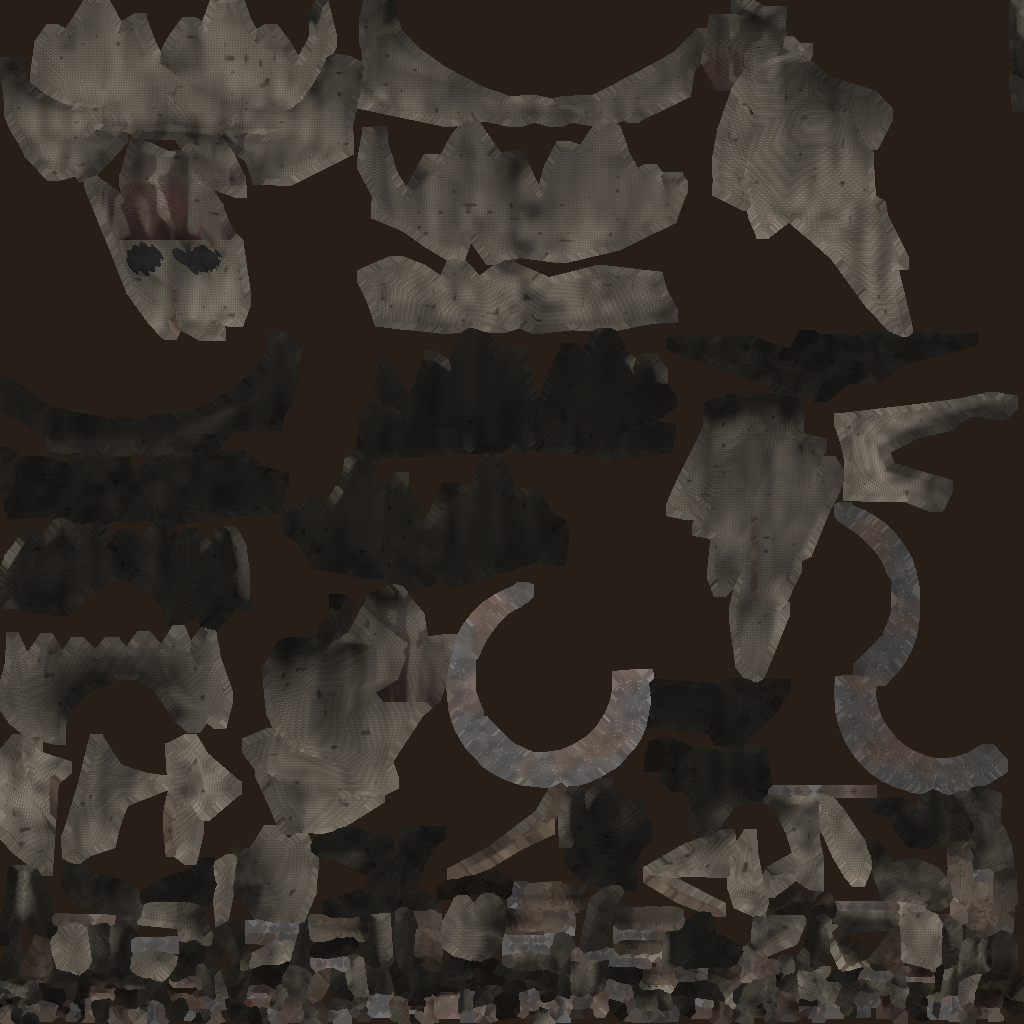
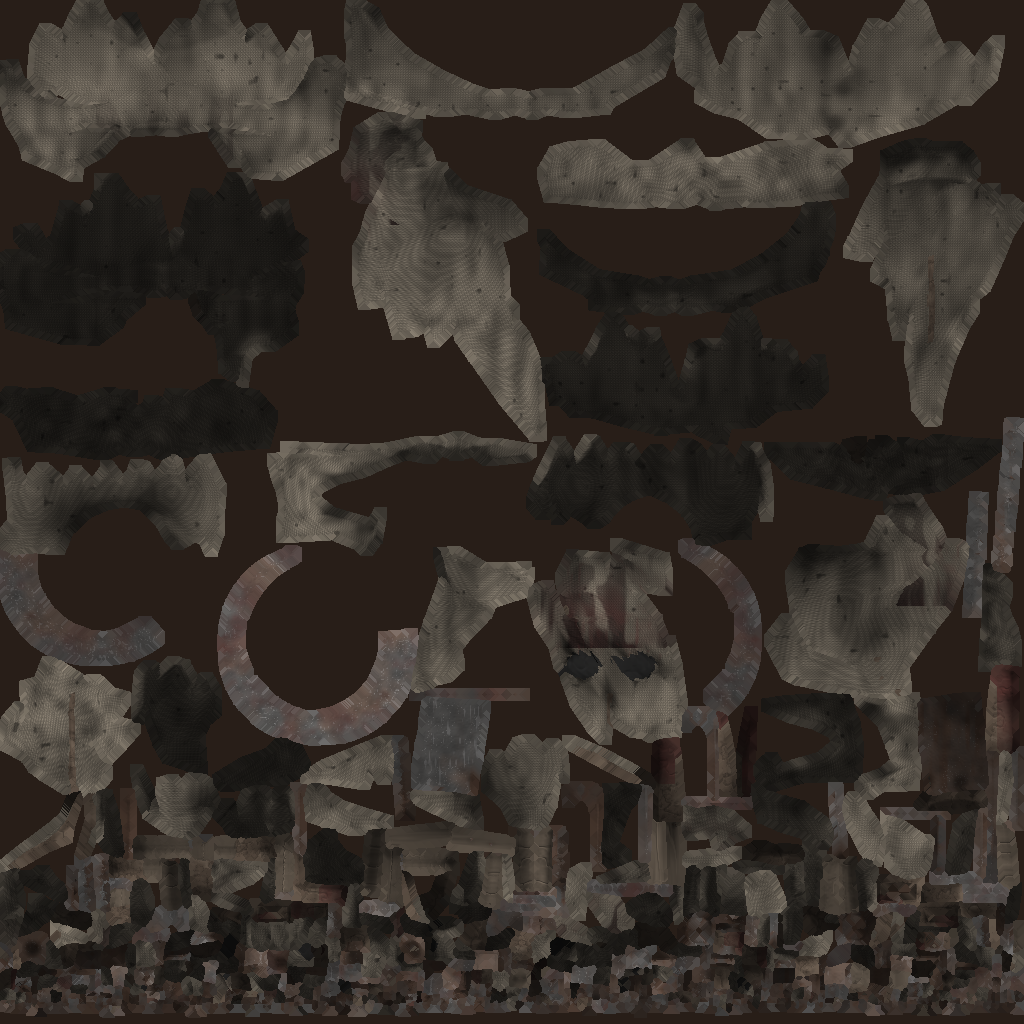
El Carnicero: segundo pase de detalle (delantal, herramientas, costuras, sangre)
Claude-Session: https://claude.ai/code/session_016UXqqEt7WrCGpXB6jiMYkp

diff --git a/models/rastrero/model.py b/models/rastrero/model.py
@@ -131,6 +131,16 @@ def legs(p):
     for c, r in ((JR['knee'] + V(0, -10, 70), V(55, 60, 60)), (JL['knee'] + V(10, -170, 55), V(48, 70, 60))):
         d = np.maximum(d, -(ell(p, c, r) + 6 * np.sin(p[:, 0] * 0.3 + p[:, 1] * 0.25)))
     return d
+def seams(p, lg):
+    """raised outer seams, a stitched patch on the left thigh, rolled cuffs"""
+    x, y, z = p[:, 0], p[:, 1], p[:, 2]
+    d = None
+    for s, j in ((-1, JR), (1, JL)):
+        ln_ = np.maximum(np.maximum(lg - 2.5, -lg - 2), np.maximum(np.abs(z - 10) - 3.0, np.maximum(s * (j['hip'][0] - x), y - 930)))
+        cf = np.maximum(np.abs(rcone(p, j['ank'] + V(0, 185, 0), j['ank'] + V(0, 235, 0), 86, 84)) - 7, np.abs(y - j['ank'][1] - 210) - 26)
+        d = mn(*(e for e in (d, ln_, cf) if e is not None))
+    pt = np.maximum(np.maximum(lg - 3.5, -lg - 3), rbox(p, JL['hip'] + V(25, -230, 90), V(55, 65, 80), 10))
+    return np.minimum(d, pt)
 def knees(p):                                                     # skin showing through the tears
     d = None
     for s, j in ((-1, JR), (1, JL)):
@@ -172,6 +182,12 @@ def shirt(p, tor):
     d = np.maximum(d, -np.maximum(vn, 1300 - y))
     for i in range(4):                                                               # buttons
         d = np.minimum(d, sph(p, V(-26, 1300 - i * 75, 150 - 8 * i), 7))
+    col = np.maximum(np.abs(rcone(p, V(0, 1470, 5), V(0, 1545, 25), 78, 66)) - 6, np.maximum(np.abs(y - 1505) - 30, 1300 - y))   # collar
+    col = np.maximum(col, -np.maximum(np.abs(x) - 35, -z))
+    d = np.minimum(d, col)
+    for s_ in (-1, 1):                                                               # shoulder seams
+        d = np.minimum(d, np.maximum(np.maximum(tor - 12.5, -(tor - 6)), np.abs(x - s_ * 150) - 2.5 + 0 * y))
+    d = np.maximum(d, np.maximum(y - 1545, 930 - y))
     return d
 def straps(p, tor):
     """leather braces: front from the belt over the shoulders, crossed on the back"""
@@ -194,28 +210,75 @@ def belt(p):
     bk = rbox(p, V(-30, 975, 132), V(32, 28, 9), 4)
     bk = np.maximum(bk, -rbox(p, V(-30, 975, 140), V(19, 15, 9), 3))
     return b, bk
-def apron(p):
-    """a ragged leather apron hanging from the belt to below the knees, front only"""
+def apron(p, tor):
+    """the butcher's apron: heavy leather from the chest to below the knees, a strap round the neck,
+    tied at the back; a stitched pocket, rivets, cut and scored all over"""
     x, y, z = p[:, 0], p[:, 1], p[:, 2]
     rr = np.sqrt((x * 0.9) ** 2 + (z + 40) ** 2)
-    sl = 0.10 * np.clip(990 - y, 0, 600)                                      # flares out downwards
-    d = np.abs(rr - 168 - sl - 6 * np.sin(x * 0.05) * np.clip((900 - y) / 300, 0, 1)) - 5
-    hem = 470 + 45 * np.sin(x * 0.045 + 0.8) + 25 * np.sin(x * 0.13) + 18 * np.sin(x * 0.31)
-    d = np.maximum(d, np.maximum(y - 995, hem - y))
-    d = np.maximum(d, np.maximum(np.abs(x) - 185 - 0.12 * np.clip(990 - y, 0, 600), 40 - z))
-    for c in (V(70, 640, 200), V(-110, 560, 200), V(10, 760, 190)):        # holes
-        d = np.maximum(d, -(sph(p * V(1, 0.6, 1), c * V(1, 0.6, 1), 22)))
-    return d
+    sl = 0.10 * np.clip(990 - y, 0, 600)
+    lo = np.abs(rr - 170 - sl - 7 * np.sin(x * 0.05) * np.clip((900 - y) / 300, 0, 1)) - 5.5
+    hem = 455 + 40 * np.sin(x * 0.045 + 0.8) + 22 * np.sin(x * 0.13) + 14 * np.sin(x * 0.31)
+    lo = np.maximum(lo, np.maximum(y - 1000, hem - y))
+    lo = np.maximum(lo, np.maximum(np.abs(x) - 190 - 0.12 * np.clip(990 - y, 0, 600), 40 - z))
+    bib = np.abs(tor - 30) - 5.5                                                # over the shirt and braces
+    bw = 92 + np.clip(1390 - y, 0, 400) * 0.13
+    top = 1395 - 0.004 * x * x                                                  # rounded top corners
+    bib = np.maximum(bib, np.maximum(np.abs(x) - bw, np.maximum(y - top, 990 - y)))
+    bib = bib + 2.2 * np.sin(y * 0.05 + 0.6 * np.sin(x * 0.04)) * np.clip((1350 - y) / 100, 0, 1)    # heavy hide sags
+    bib = np.maximum(bib, 30 - z)
+    d = np.minimum(lo, bib)
+    d = d + 1.6 * np.sin(y * 0.07 + 1.3 * np.sin(x * 0.03)) * np.clip((1000 - y) / 80, 0, 1)      # creases where it bends
+    for c in (V(70, 640, 200), V(-110, 560, 200), V(10, 760, 190), V(150, 520, 160)):              # holes, cuts
+        d = np.maximum(d, -(sph(p * V(1, 0.6, 1), c * V(1, 0.6, 1), 18)))
+    for x0, y0, a_ in ((-40, 860, 0.5), (60, 1180, -0.3), (-80, 1250, 0.2), (95, 700, 0.9), (-20, 1080, -0.6)):  # knife scores
+        dd = np.abs((x - x0) * math.sin(a_) - (y - y0) * math.cos(a_)) - 1.6
+        along = np.abs((x - x0) * math.cos(a_) + (y - y0) * math.sin(a_)) - 45
+        d = np.maximum(d, -np.maximum(np.maximum(dd, along), z - 0))
+    # pocket on the front with a stitched rim
+    pk = np.maximum(np.abs(rr - 170 - sl) - 10.5, np.maximum(np.abs(x - 70) - 62, np.abs(y - 820) - 55))
+    pk = np.maximum(pk, 40 - z)
+    rim = np.maximum(pk + 1.5, -np.maximum(np.abs(x - 70) - 55, np.abs(y - 820) - 48))
+    d = np.minimum(d, pk)
+    # neck strap and the ties at the back
+    ns = None
+    for s_ in (-1, 1):
+        a0 = V(s_ * 88, 1365, 0); a0[2] = 140
+        r_ = rcone(p, a0, V(s_ * 70, 1520, 40), 13, 13); r_ = np.maximum(r_, np.abs((p - a0) @ V(s_, 0, 0.3)) - 3.5 - 1e3 * 0)
+        ns = r_ if ns is None else np.minimum(ns, r_)
+    ns = np.minimum(ns, np.maximum(torus(p, V(0, 1520, -10), nrm(V(0, 1, -0.25)), 80, 11), z - 40))
+    ties = np.maximum(np.abs(np.minimum(pelvis(p), ell(p, V(0, 1105, 12), V(138, 150, 100))) - 34) - 5, np.maximum(np.abs(y - 990) - 11, z + 20))
+    bow = np.minimum(ell(p, V(-38, 992, -150), V(38, 18, 9)), ell(p, V(38, 992, -150), V(38, 18, 9)))
+    bow = np.minimum(bow, sph(p, V(0, 990, -150), 14))
+    tl = np.minimum(rcone(p, V(-5, 985, -150), V(-30, 860, -148), 7, 6), rcone(p, V(5, 985, -150), V(25, 870, -150), 7, 6))
+    rv = None
+    for c in (V(-88, 1362, 0), V(88, 1362, 0), V(-125, 1000, 0), V(125, 1000, 0)):
+        c = c.copy(); c[2] = 152 if c[1] > 1200 else 150
+        r2 = sph(p, c, 7); rv = r2 if rv is None else np.minimum(rv, r2)
+    return mn(d, ns, ties, bow, tl), rv, rim
+def bracer(p):
+    """leather guard laced on the right forearm (the hand that holds the meat)"""
+    j = JR; a = j['el'] + (j['wr'] - j['el']) * 0.30; b = j['wr'] + (j['el'] - j['wr']) * 0.06
+    g = rcone(p, a, b, 50, 41)
+    g = np.maximum(np.abs(g) - 4.5, np.abs((p - (a + b) / 2) @ nrm(b - a)) - float(np.linalg.norm(b - a)) / 2)
+    st = None
+    for t in (0.2, 0.75):
+        c = a + (b - a) * t; s_ = np.maximum(np.abs(rcone(p, a, b, 55, 46)) - 3.5, np.abs((p - c) @ nrm(b - a)) - 9)
+        st = s_ if st is None else np.minimum(st, s_)
+    bk = None
+    for t in (0.2, 0.75):
+        c = a + (b - a) * t + V(0, 0, 50 - 6 * t); b_ = rbox(p, c, V(13, 11, 5), 2)
+        bk = b_ if bk is None else np.minimum(bk, b_)
+    return g, st, bk
 def body(p):
     sk = skin(p); tor = np.minimum(torso(p), pelvis(p))
     lg = legs(p); bt, so, la = boots(p); bl, bk = belt(p)
-    ap = apron(p); sh = shirt(p, tor); stp = straps(p, tor)
+    ap, rivets, rim = apron(p, tor); sh = shirt(p, tor); stp = straps(p, tor); bg, bst, bbk = bracer(p)
     pl = plaga_arm(p); sp = smin(spikes_arm(p), spine_spikes(p), 6)
     spb = None                                                         # flesh round the spine spikes' roots
     for y in (1170, 1235, 1300, 1365, 1430, 1490):
         s_ = ell(p, V(0, y, -110), V(34, 30, 26)); spb = s_ if spb is None else smin(spb, s_, 12)
-    return {SKIN: mn(sk, knees(p)), CLOTH: sh, PANTS: lg, BOOT: bt, SOLE: so, LEATHER: mn(ap, bl, stp, la),
-            IRON: bk, PLAGA: mn(pl, spb), BONE: sp}
+    return {SKIN: mn(sk, knees(p)), CLOTH: sh, PANTS: mn(lg, seams(p, lg)), BOOT: bt, SOLE: so, LEATHER: mn(ap, bl, stp, la, bg, bst, rim),
+            IRON: mn(bk, rivets, bbk), PLAGA: mn(pl, spb), BONE: sp}
 BODY_BOX = (V(-820, -5, -330), V(1010, 1600, 330))
 
 # ---- hood: a burlap sack tied at the neck, eye holes torn in it, a sewn mouth ----------------------
@@ -265,6 +328,19 @@ def hood(p):
     knot = sph(p, V(30, 1505, 82), 18)
     rope = smin(rope, np.minimum(knot, np.minimum(rcone(p, V(30, 1500, 85), V(42, 1395, 98), 7, 6), rcone(p, V(30, 1500, 85), V(12, 1410, 102), 7, 6))), 6)
     d = np.maximum(d, -np.maximum(groove - 0.0, np.abs(h) - 3.0))                     # the sewn-up mouth sinks in
+    # a sewn-on patch over the right temple, with big stitches round it
+    pc = HEAD + V(-78, 70, 55)
+    pt = np.maximum(np.maximum(h - 3.0, -h - 6), ell(p, pc, V(60, 48, 70)))
+    d = np.minimum(d, pt)
+    for i in range(10):
+        a_ = i * 2 * math.pi / 10; c_ = pc + V(52 * math.cos(a_) * 0.55, 42 * math.sin(a_), 52 * math.cos(a_) * 0.75)
+        q_ = np.maximum(sph(p, c_, 4.5), np.abs(h - 2) - 4)
+        st = np.minimum(st, q_)
+    # frayed threads hanging from the eye holes
+    for s_ in (-1, 1):
+        for k in range(3):
+            t0 = HEAD + V(s_ * (28 + 12 * k), 2 - 4 * k, 112 - 4 * k)
+            st = np.minimum(st, rcone(p, t0, t0 + V(s_ * 4, -28 - 10 * k, 4), 1.8, 1.2))
     return {SACK: d, SOLE: dark, EYE: glint, LEATHER: mn(seam, st, cs, rope)}
 HOOD_BOX = (V(-290, 1340, -280), V(290, 1920, 300))
 
@@ -331,16 +407,55 @@ CLAW_BOX = box_of([JL['wr'] - FD_L * 60, JL['wr'] + FD_L * 420 + V(0, -260, 0), 
 
 # ---- accessories ---------------------------------------------------------------------------------
 def acc(p):
+    """the butcher's belt: a cleaver on a ring at the right hip, a knife in its sheath at the left, the
+    sharpening steel behind it, two meat hooks on a chain at the back"""
+    x, y, z = p[:, 0], p[:, 1], p[:, 2]
     clips = None
     for s in (-1, 1):
-        fx = s * (78 + 15 * 0.06)
-        c = rbox(p, V(fx, 1005, 132), V(19, 15, 6), 3)
-        clips = c if clips is None else np.minimum(clips, c)
-    # a pouch and a whetstone hanging from the belt at the right hip
-    pouch = rbox(p, V(-150, 900, 70), V(42, 55, 26), 14, frame(nrm(V(0.4, 0, 0.9)), V(0, 1, 0)))
-    flap = rbox(p, V(-150, 945, 78), V(45, 16, 29), 8, frame(nrm(V(0.4, 0, 0.9)), V(0, 1, 0)))
-    return {IRON: clips, LEATHER: smin(pouch, flap, 4)}
-ACC_BOX = (V(-230, 820, -60), V(140, 1040, 180))
+        c = rbox(p, V(s * 79, 1005, 132), V(19, 15, 6), 3); clips = c if clips is None else np.minimum(clips, c)
+    # cleaver: hanging blade down, flat to the thigh
+    R1 = frame(nrm(V(0.08, -1, 0.15)), V(0, 0, 1))
+    q = (p - V(-258, 950, 40)) @ R1.T
+    cb = rbox(q, V(105, 0, 0), V(85, 55, 3.5), 2)
+    cb = np.maximum(cb, -(ln(q[:, [0, 1]] - np.array([38, -30], np.float32)) - 11))                       # the hang hole
+    cb = np.maximum(cb, -np.maximum(np.abs(q[:, 1] + 55) - 3, np.abs(q[:, 0] - 130) - 8))                 # a notch
+    ch = ccyl(q, V(40, 55, 0), V(40, 170, 0), 15, 4)
+    ring = torus(p, V(-232, 948, 40), nrm(V(0, 0, 1)), 26, 5)
+    rivc = np.minimum(sph(q, V(40, 90, 15), 4.5), sph(q, V(40, 130, 15), 4.5))
+    # sheath + knife on the left hip
+    R2 = frame(nrm(V(-0.05, -1, 0.12)), V(1, 0, 0))
+    q2 = (p - V(262, 900, 20)) @ R2.T
+    sheath = rbox(q2, V(115, 0, 0), V(120, 24, 11), 6) + 0.08 * np.clip(q2[:, 0] - 60, 0, 200)
+    sheath = np.maximum(sheath, q2[:, 0] - 240)
+    kh = ccyl(q2, V(-120, 0, 0), V(-6, 0, 0), 15, 4); bol = ccyl(q2, V(-8, 0, 0), V(6, 0, 0), 19, 2)
+    loop = np.maximum(np.abs(rbox(q2, V(0, 0, 0), V(30, 36, 18), 6)) - 3, np.abs(q2[:, 0] - 20) - 14)
+    # sharpening steel behind it
+    R3 = frame(nrm(V(0.05, -1, -0.1)), V(1, 0, 0))
+    q3 = (p - V(240, 930, -95)) @ R3.T
+    st = ccyl(q3, V(20, 0, 0), V(300, 0, 0), 7, 1)
+    st = st + 0.6 * np.sin(q3[:, 0] * 1.2)
+    sh_ = ccyl(q3, V(-95, 0, 0), V(0, 0, 0), 15, 4); gd = ccyl(q3, V(0, 0, 0), V(18, 0, 0), 22, 3)
+    eye = torus(q3, V(-110, 0, 0), V(0, 0, 1), 12, 3.5)
+    # two meat hooks on a short chain, right back
+    hk = None; chn = None
+    for i, (hx, hz) in enumerate(((-200, -150), (-140, -190))):
+        top = V(hx, 980, hz)
+        for k in range(3):
+            c = top + V(0, -22 * k - 10, 0)
+            l_ = torus(p, c, V(1, 0, 0) if k % 2 else V(0, 0, 1), 9, 3.2)
+            chn = l_ if chn is None else np.minimum(chn, l_)
+        b0 = top + V(0, -80, 0)
+        sh2 = rcone(p, b0, b0 + V(0, -110 - 20 * i, 0), 5.5, 5.5)
+        cv = top + V(0, -190 - 20 * i, 0) + V(0, 0, 32)
+        qq = p - cv; r_ = np.sqrt(qq[:, 1] ** 2 + qq[:, 2] ** 2)
+        arc = np.maximum(np.abs(r_ - 32) - 5.5 + 0 * qq[:, 0], np.abs(qq[:, 0]) - 5.5)
+        arc = np.maximum(arc, qq[:, 1] - 8 * 0 - 0)                                                     # lower half
+        arc = np.maximum(arc, -(qq[:, 2] + 30) * 0 + (qq[:, 2] > 26) * 1e3)
+        tip = rcone(p, cv + V(0, 0, 32), cv + V(0, 30, 34), 5.5, 1.2)
+        h_ = mn(sh2, arc, tip)
+        hk = h_ if hk is None else np.minimum(hk, h_)
+    return {IRON: mn(clips, cb, ring, st, bol, gd, eye, hk, chn), WOOD: mn(ch, kh, sh_), LEATHER: mn(sheath, loop), CHAIN: rivc}
+ACC_BOX = (V(-330, 480, -300), V(330, 1060, 240))
 
 # ---- weapon: a rusted sickle ---------------------------------------------------------------------
 WB = np.stack([HDIR, FD_R, np.cross(HDIR, FD_R)])                   # local x along the handle, y along the forearm: hanging, the blade curves down in front of the leg
@@ -379,8 +494,8 @@ def wbox():
     c = [GRIP + WB.T @ V(x, y, z) for x in (-190, 470) for y in (-40, 430) for z in (-30, 30)]
     return box_of(c, 12)
 WEAPON_BOX = wbox()
-PARTS = [('body', body, BODY_BOX, 4.5, 9000), ('mask', hood, HOOD_BOX, 2.5, 1600), ('fist', fist, FIST_BOX, 2.0, 500),
-         ('claw', claw, CLAW_BOX, 2.0, 1500), ('acc', acc, ACC_BOX, 2.5, 300), ('weapon', weapon, WEAPON_BOX, 2.0, 900)]
+PARTS = [('body', body, BODY_BOX, 3.5, 13000), ('mask', hood, HOOD_BOX, 2.0, 2200), ('fist', fist, FIST_BOX, 2.0, 500),
+         ('claw', claw, CLAW_BOX, 2.0, 1500), ('acc', acc, ACC_BOX, 2.0, 2200), ('weapon', weapon, WEAPON_BOX, 2.0, 1200)]
 def field(fn, p):
     g = fn(p); mats = list(g.keys()); D = np.stack([g[m] for m in mats])
     return D.min(0), np.array(mats)[D.argmin(0)]

diff --git a/models/rastrero/tex.py b/models/rastrero/tex.py
@@ -212,6 +212,35 @@ def texcolour(name, fn, P, N):
         scr = np.clip(1 - np.abs(aniso(Q, 45.0, 2.2, 0, 31.0) - 0.5) / 0.012, 0, 1) * (vnoise(Q + 8, 60.0) > 0.55) + np.clip(1 - np.abs(aniso(Q + 9, 50.0, 2.0, 1, 37.0) - 0.5) / 0.010, 0, 1) * (vnoise(Q + 80, 60.0) > 0.6)
         c[ir] += 0.10 * np.clip(scr, 0, 1)[:, None]
         ham = vnoise(Q, 16.0); c[ir] *= (0.72 + 0.5 * ham)[:, None]                                            # hammered, uneven plate
+    # ---- the butcher: blood everywhere he works
+    x_, y_, z_ = P[:, 0], P[:, 1], P[:, 2]
+    BLD = np.array([0.15, 0.018, 0.014], np.float32); DRY = np.array([0.075, 0.03, 0.022], np.float32)
+    b = np.zeros(len(P), np.float32)
+    apr = (mat == LEATHER) & (z_ > 25) & (y_ < 1400) & (np.abs(x_) < 270)
+    if apr.any():
+        Q = P[apr]
+        big = np.clip((fbm(Q + 31, 110.0) - 0.36) * 3.0, 0, 1) * (0.55 + 0.45 * np.clip((1250 - Q[:, 1]) / 400, 0, 1))
+        drip = np.clip((vnoise(Q * np.array([1, 0.05, 1], np.float32), 14.0) - 0.62) * 4, 0, 1) * np.clip((fbm(Q + 3, 160.0) - 0.3) * 3, 0, 1)
+        wipe = np.clip((vnoise(Q * np.array([0.06, 1, 1], np.float32), 10.0) - 0.55) * 3, 0, 1) * np.clip((np.abs(Q[:, 0]) - 80) / 60, 0, 1) * (np.abs(Q[:, 1] - 930) < 90)
+        b[apr] = np.maximum(np.maximum(big, drip), wipe)
+    skn = ((mat == SKIN) | (mat == CLOTH)) & (np.abs(x_) > model.ARM_X + 150) & (x_ < 0)       # the working arm, to the elbow
+    if skn.any():
+        Q = P[skn]; t_ = np.clip((np.abs(Q[:, 0]) - (model.ARM_X + 150)) / 280, 0, 1)
+        b[skn] = np.clip(t_ * 1.1 - 0.35 + 0.9 * (fbm(Q + 9, 30.0) - 0.5), 0, 1) * 0.75
+    hnd = (mat == SKIN) & (np.linalg.norm(P - model.GRIP, axis=1) < 140)
+    b[hnd] = np.maximum(b[hnd], 0.6 * np.clip((fbm(P[hnd] + 2, 20.0) - 0.45) * 3, 0, 1))
+    spl = np.isin(mat, (PANTS, BOOT, CLOTH)) & ~skn
+    if spl.any():
+        Q = P[spl]
+        spots = np.clip((vnoise(Q + 77, 9.0) - 0.78) * 6, 0, 1) * np.clip((fbm(Q + 11, 90.0) - 0.35) * 3, 0, 1)
+        runs = np.clip((vnoise(Q * np.array([1, 0.07, 1], np.float32) + 5, 12.0) - 0.75) * 5, 0, 1) * (Q[:, 1] < 700)
+        b[spl] = np.maximum(spots, runs * 0.7) * (0.6 + 0.4 * np.clip((900 - Q[:, 1]) / 600, 0, 1))
+    ir = (mat == IRON) & (np.linalg.norm(P - model.GRIP, axis=1) < 520) & (np.linalg.norm(P - model.GRIP, axis=1) > 160)
+    if ir.any():
+        b[ir] = np.clip((fbm(P[ir] + 41, 40.0) - 0.4) * 2.5, 0, 1) * 0.8
+    dry = np.clip(fbm(P + 123, 35.0) * 1.4 - 0.3, 0, 1)[:, None]
+    bc = BLD * (1 - dry) + DRY * dry
+    c = c * (1 - 0.9 * b[:, None]) + bc * 0.9 * b[:, None]
     sa = mat == SACK
     if sa.any():
         Q = P[sa]

diff --git a/models/rastrero/show.py b/models/rastrero/show.py
@@ -28,7 +28,7 @@ CROUCH = {1: rx(d(35)), 2: rx(d(22)), 3: rx(d(-38)), 4: rx(d(-28)),
 POSES = {'stand': STAND, 'crouch': CROUCH}
 V = {'front': ((900, 1250, 3600), (0, 900, 0)), 'q2': ((2600, 1150, 2500), (0, 900, 0)), 'side': ((-3700, 1100, 300), (0, 900, 0)),
      'back': ((-1300, 1400, -3400), (0, 950, 0)), 'face': ((420, 1650, 1200), (0, 1560, 50)), 'claw': ((2200, 1300, 1500), (700, 1000, 300)),
-     'sickle': ((-1500, 1000, 1900), (-560, 650, 250)), 'cq': ((2400, 1100, 2600), (0, 650, 300)), 'cside': ((-3300, 900, 600), (0, 600, 200))}
+     'sickle': ((-1500, 1000, 1900), (-560, 650, 250)), 'hipR': ((-1600, 1000, 1300), (-120, 820, 40)), 'hipL': ((1500, 1000, 1200), (120, 850, 0)), 'chest': ((300, 1300, 1500), (0, 1150, 100)), 'cq': ((2400, 1100, 2600), (0, 650, 300)), 'cside': ((-3300, 900, 600), (0, 600, 200))}
 if __name__ == '__main__':
     for k in sys.argv[1:]:
         pose, view = k.split(':')

diff --git a/ESTADO_PROYECTO.md b/ESTADO_PROYECTO.md
@@ -374,7 +374,12 @@ Reglas de trabajo del usuario:
      Capucha de saco (ojos rotos, boca cosida, sangre), camisa rota en el hombro izq. y en la columna,
      tirantes, delantal hecho jirones, pantalón roto, botas; hoz oxidada en la mano der.; brazo izq. de la
      Plaga (fibras rojas, púas de hueso, garras de hueso); púas en la columna. Materiales nuevos SACK, BONE.
-     Hoja 1 de diseño: rastrero_sheet.png (13.623 tris de detalle). Siguiente: opinión del usuario → pose a
+     Hoja 1 de diseño: rastrero_sheet.png (13.623 tris de detalle). Usuario: le falta detalle, será el
+     CARNICERO del pueblo → hoja 2 carnicero_sheet.png (20.443 tris): delantal de carnicero con peto, tira
+     al cuello, lazo atrás, bolsillo, remaches y cortes; brazal de cuero en el antebrazo der.; cinturón con
+     cuchilla en anilla, cuchillo en funda, chaira y dos ganchos de carne con cadena; costuras, cuello,
+     vueltas del pantalón, remiendo; capucha con parche cosido, hilos y boca hundida; sangre de carnicero
+     (peto/delantal, antebrazo der., salpicaduras en pantalón/botas, hoz). Siguiente: opinión del usuario → pose a
      4 patas con IK, low-poly/formato del juego.
    - PLAN enemigo NUEVO (no sustituir): ESL (emleon00–09.esl, 255 entradas × 32 B) → entrada Ganado
      (id 0x10) con una marca en un campo libre; hook en la creación/carga de modelo de em10: si lleva
